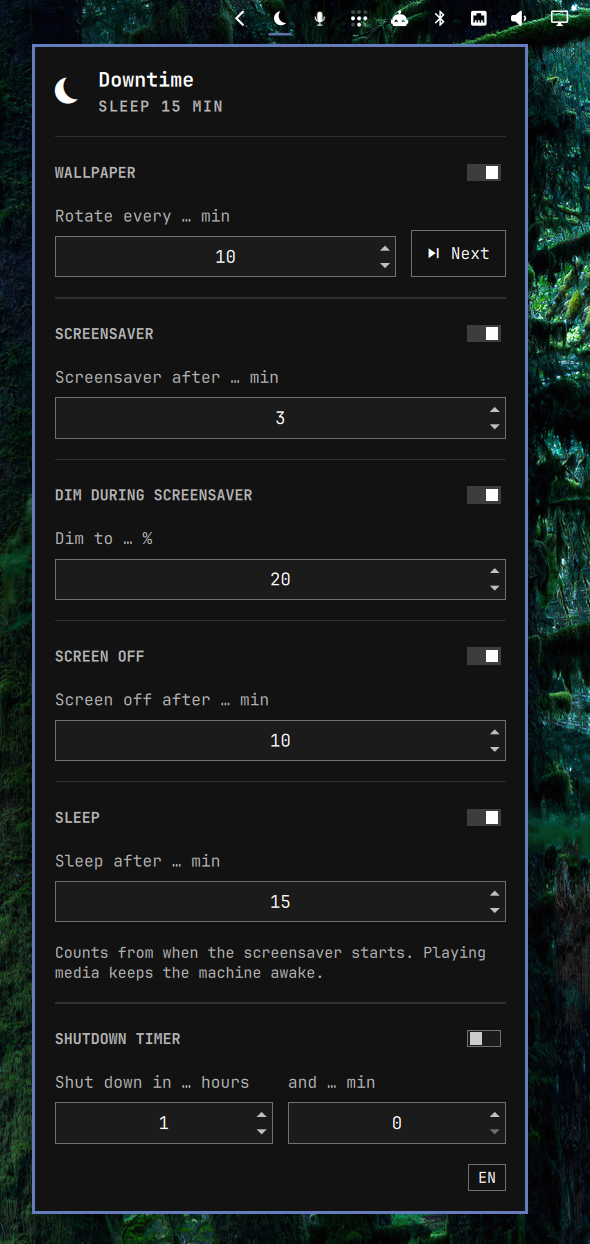
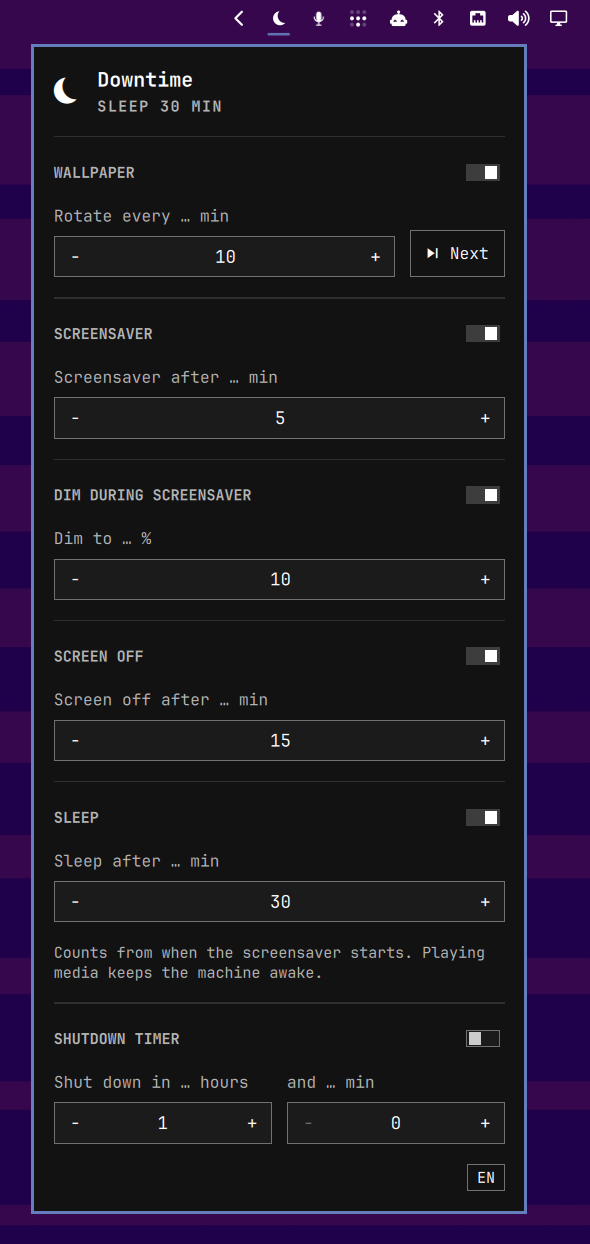
Release 1.4.2

diff --git a/README.md b/README.md
@@ -31,6 +31,7 @@ Things worth knowing:
 - **The shutdown timer is one-shot.** The switch starts the countdown and cancels it. A notification confirms the time, and another one comes one minute before. Sleep is paused and greyed out while it runs, because a sleeping machine would never shut down. The timer survives a shell restart and is cancelled when the plugin is disabled or removed. The chosen time is kept for next time.
 - **Dimming needs a display whose brightness Omarchy can set.** It uses `omarchy-brightness-display`, the same path as the brightness keys: the backlight on laptops, DDC/CI on external monitors. If no display can be dimmed, the switch is greyed out with a hint. On a monitor, DDC/CI may have to be turned on in its own menu. If your brightness keys work, dimming works too.
 - **Brightness always comes back.** Each change is read back and retried, displays still waking up from screen off are waited for (even monitors that vanish for a moment while they wake up), and anything left dimmed without a screensaver is restored within seconds. Displays already darker than the target are left alone.
+- **Numbers are set with − and +.** Hold a button to count faster, or use the mouse wheel or the arrow keys. There is no text field, so the panel never reads the clipboard.
 - **The panel warns when hypridle is missing**, and starts the timings on its own once it is installed.
 - **Locking is not changed.** Omarchy still locks the screen before sleep. If you do not want a password after wake, see [Sleep without a password](#sleep-without-a-password).
 

diff --git a/CHANGELOG.md b/CHANGELOG.md
@@ -1,5 +1,12 @@
 # Changelog
 
+## 1.4.2 - 2026-10-11
+
+- Numbers in the panel are set with − and + buttons instead of a text field.
+  Hold a button to count faster, or use the mouse wheel or the arrow keys.
+  Without a text field the panel never reads the clipboard, so a misbehaving
+  clipboard owner can no longer stall the shell or fill its memory.
+
 ## 1.4.1 - 2026-10-09
 
 - Dimmed displays come back within seconds after waking from a long screen
